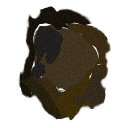
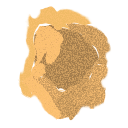
feat: add new assets

diff --git a/src/assets/Assets.ts b/src/assets/Assets.ts
@@ -65,7 +65,7 @@ export const manifest: AssetsManifest = {
         gasoline: './static/assets/materials/gasoline.png',
         gasoline_can: './static/assets/materials/gasoline_can.png',
         empty_gasoline_can: './static/assets/materials/empty_gasoline_can.png',
-        mineral: './static/assets/materials/mineral.png',
+        mineral: './static/assets/materials/mineral_2.png',
       },
     },
     {
